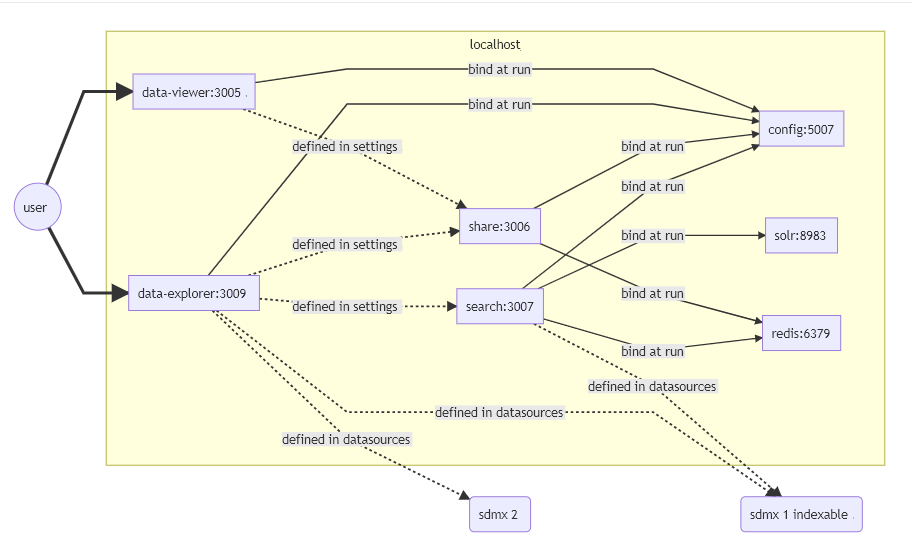
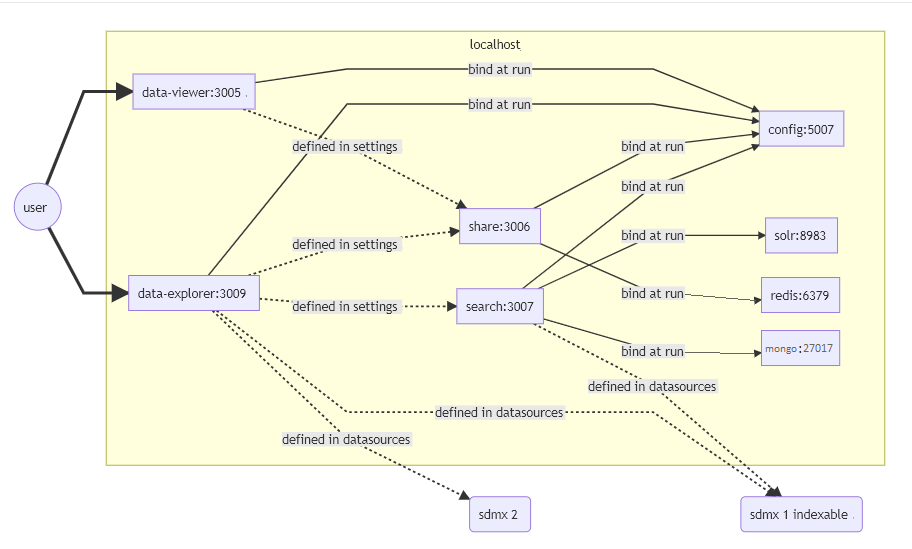
search and mongo documentation

Changed region(s): [[0.7675, 0.4954, 0.9211, 0.6812], [0.7368, 0.5264, 0.7675, 0.5574]]

diff --git a/content/configurations/search-config/_index.md b/content/configurations/search-config/_index.md
@@ -1,0 +1,101 @@
+---
+title: "Search Configuration"
+subtitle: 
+comments: false
+weight: 87
+keywords: [
+ 'Folder architecture', '#folder-architecture',
+ 'sfs.json and search result boost', '#sfs-json-and-search-result-boost',
+ 'settings.json', '#settings.json',
+]
+---
+
+#### Table of Content
+- [Folder architecture](#folder-architecture)
+- [sfs.json and search result boost](#sfs-json-and-search-result-boost)
+- [settings.json](#settings.json)
+
+---
+
+### Folder architecture
+The below diagram shows how the configuration files of the Search (sfs) service, respectively **settings.json** and **sfs.json**, are structured:
+
+```
+.
+├── configs
+│   ├── oecd
+│   │   ├── data-explorer
+│   │   ├── data-viewer
+|   |   ├── data-lifecycle-manager
+|   |   ├── sfs
+|   |   |   ├── settings.json       # see Table of content
+|   ├── sfs.json                    # see Table of content
+|   ├── tenants.json
+```
+
+---
+
+### sfs.json and search result boost
+The default configuration of sfs.json file is an empty object with fields property. This file is currently required and mandatory for the search service, especially for the search result boost feature. See more in the ([readme resource config](https://gitlab.com/sis-cc/.stat-suite/dotstatsuite-sdmx-faceted-search#resource-config)) file.
+
+*sfs.json*
+```json
+{
+  "fields": {}
+}
+```
+
+*Note* that the sfs.json file is merged with the [default configuration](https://gitlab.com/sis-cc/.stat-suite/dotstatsuite-sdmx-faceted-search/-/blob/develop/src/server/init/params.js).
+
+#### Example
+Use case: we want to create a search text boost based on `dataflowId` rather than dataflow name.  
+Considering that in the [default configuration](https://gitlab.com/sis-cc/.stat-suite/dotstatsuite-sdmx-faceted-search/-/blob/develop/src/server/init/params.js), the property name weight is at "2".  
+In order to boost the search result for dataflowId in the data-explorer, you need to increase the `dataflowId` weight in the sfs.json file.
+
+*sfs.json*
+```json
+{
+  "fields": {
+    "dataflowId": {
+      "weigth": 100
+    }
+  }
+}
+```
+
+The weight property will increase the score returned by the search service. As a result, any dataflow with the `dataflowId` that is matching the searched term used in the data-explorer will be displayed at a first position in the search result.  
+
+---
+
+### settings.json
+The sfs>settings.json file is defined at the tenant level and allows to override the search service calls to the NSI in order to bypass a request limiter.
+
+Override the (data) spaces from the tenants.json 
+
+*tenants.json*
+```json
+{
+  "spaces": {
+    "demo-design": {
+      "label": "demo-design",
+      "hasRangeHeader": true,
+      "supportsReferencePartial": true,
+      "hasLastNObservations": true,
+      "url": "http://localhost:80/rest"
+    }
+  }
+}
+```
+
+... with the url from that space only for the search service used.  
+
+*settings.json*
+```json
+{
+  "spaces": {
+    "demo-design": {
+      "url": "http://nsi-url/rest"
+    }
+  }
+}
+```

diff --git a/content/install-source-code/monotenant-install-from-artifacts.md b/content/install-source-code/monotenant-install-from-artifacts.md
@@ -40,6 +40,7 @@ keywords: [
 - [git](https://gitforwindows.org/) installed ; only to use git bash instead of cmd.exe for process variables
 - [solr 7.x](https://lucene.apache.org/solr/downloads.html) to solr 8.7 (since [May 19, 2021 Release .Stat Suite JS 8.0.0](https://sis-cc.gitlab.io/dotstatsuite-documentation/changelog/#may-19-2021)) installed and running on port 8983 (default) with a core created with `solr create -c sdmx-facet-search` from solr console
 - [redis](https://redis.io/download) downloaded and running on port 6379 (default)
+- [mongo](https://www.mongodb.com/try/download/community) downloaded and running on port 27017 (default)
 - [keycloak](https://www.keycloak.org/downloads.html) v7.x (minimum) - v12.0.4 (latest tested and recommended) downloaded and running on port 8080 (default)
 
 *notes:*
@@ -147,7 +148,7 @@ keywords: [
 3. start the service:
 
   - (temporary) edit the 1st line of dist/params/production.js as follow: `const server = { host: '0.0.0.0', port: 3007 };`
-  - (in git bash) run `PORT=3007 CONFIG_URL=http://localhost:5007 REDIS_HOST=localhost SOLR_HOST=localhost npm run dist:run`
+  - (in git bash) run `PORT=3007 CONFIG_URL=http://localhost:5007 MONGODB_URL=mongodb://localhost:27017 MONGODB_DATABASE=sfs API_KEY="secret" SOLR_HOST=localhost npm run dist:run`
   - check if everything is fine: http://localhost:3007/healthcheck
   - check if the config (mostly to check datasources) is fine: http://localhost:3007/api/config
   - create a collection [How to create a collection](https://sis-cc.gitlab.io/dotstatsuite-documentation/using-de/searching-data/indexing-data/#how-to-create-a-collection)
@@ -161,7 +162,7 @@ keywords: [
 
 *notes:*
 
-- process variables are SOLR_HOST, SOLR_PORT, REDIS_HOST, REDIS_PORT, CONFIG_URL and PORT
+- process variables are SOLR_HOST, SOLR_PORT, MONGODB_URL, MONGODB_DATABASE, CONFIG_URL, API_KEY and PORT
 - PORT is not available yet, which explain why dist/params/production.js should be updated
 - if the config is not fine, update the datasources.json and/or settings.json file(s) in the config service, restart the config service then restart the search service
 - the search service is not coupled with its clients, the search endpoint is configurable from settings.json of the data-explorer app in the config service

diff --git a/content/getting started/framework.md b/content/getting started/framework.md
@@ -125,6 +125,7 @@ The following technologies are used for the development of the **.Stat Data Expl
 <td align="center"><a href="https://www.docker.com">docker</a></td>
 <td align="center"><a href="http://lucene.apache.org/solr">solr</a></td>
 <td align="center"><a href="https://redis.io">redis</a></td>
+<td align="center"><a href="https://www.mongodb.com/">mongo</a></td>
 <td align="center"><a href="https://developer.mozilla.org/fr/docs/Web/JavaScript">es6</a></td>
 <td align="center"><a href="https://nodejs.org">nodejs</a></td>
 <td align="center"><a href="https://www.npmjs.com">npmjs</a></td">
@@ -139,6 +140,7 @@ The following technologies are used for the development of the **.Stat Data Expl
 <td align="center"><img src="https://www.usine-digitale.fr/mediatheque/5/3/8/000277835_homePageUne/docker.jpg" style="height: 40px;" /></td>
 <td align="center"><img src="https://upload.wikimedia.org/wikipedia/commons/c/cd/Surface1.png" style="height: 40px;" /></td>
 <td align="center"><img src="https://cdn-images-1.medium.com/max/1200/1*ngGAAMf8Sw4jCJ_nP2Qt5A.png" style="height: 40px;" /></td>
+<td align="center"><img src="https://webimages.mongodb.com/_com_assets/cms/kuyjf3vea2hg34taa-horizontal_default_slate_blue.svg?auto=format%252Ccompress" style="height: 40px;" /></td>
 <td align="center"><img src="https://upload.wikimedia.org/wikipedia/commons/thumb/9/99/Unofficial_JavaScript_logo_2.svg/480px-Unofficial_JavaScript_logo_2.svg.png" style="height: 40px;" /></td>
 <td align="center"><img src="https://nodejs.org/static/images/logos/nodejs-new-pantone-black.svg" style="height: 40px;" /></td>
 <td align="center"><img src="https://upload.wikimedia.org/wikipedia/commons/thumb/d/db/Npm-logo.svg/1280px-Npm-logo.svg.png" style="height: 40px;" /></td>
@@ -317,7 +319,7 @@ This service is a .Stat-specific proxy to an SolR engine to index SDMX dataflows
 graph LR
   id0[ExpressJS + evtX]
   id2[SolR]
-  id4(redis)
+  id4(mongo)
   id5[config]
   id7((user))
   id9((admin))
@@ -449,7 +451,7 @@ id5[search]
 id6[share]
 id7[config]
 id8[solr]
-id9(redis)
+id9(mongo)
 id10(redis)
 id11((x))
 id13[sdmx/nsi]

diff --git a/content/install-source-code/monotenant-install-js-as-windows-services.md b/content/install-source-code/monotenant-install-js-as-windows-services.md
@@ -13,6 +13,7 @@ keywords: [
   'solr', '#solr',
   'Create a solr collection', '#create-a-solr-collection',
   'redis', '#redis',
+  'mongo', '#mongo',
   'keycloak', '#keycloak',
   'dotstatsuitejs', '#dotstatsuitejs',
   'artefacts', '#artefacts',
@@ -30,6 +31,7 @@ keywords: [
 - [solr](#solr)
 - [Create a solr collection](#create-a-solr-collection)
 - [redis](#redis)
+- [mongo](#mongo)
 - [keycloak](#keycloak)
 - [dotstatsuitejs](#dotstatsuitejs)
 - [artefacts](#artefacts)
@@ -102,6 +104,12 @@ keywords: [
 
 ### Create a solr collection
   - create a collection [How to create a collection](https://sis-cc.gitlab.io/dotstatsuite-documentation/using-de/searching-data/indexing-data/#how-to-create-a-collection)
+---
+
+### Mongo
+  - download mongo: https://www.mongodb.com/try/download/community
+  - default port 27017
+  - installation step to be completed... (you can complete it by creating a MR on https://gitlab.com/sis-cc/dotstatsuite-documentation)
 ---
 
 ### Redis
@@ -212,7 +220,7 @@ link in settings assets should stay like below:
 - checks:
   - config: http://localhost:5007/healthcheck
   - share: http://localhost:3005/healthcheck (redis OK)
-  - search: http://localhost:3004/healthcheck (redis OK, solr OK)
+  - search: http://localhost:3004/healthcheck (mongo OK, solr OK)
   - explorer: http://localhost:7001
   - viewer: http://localhost:7002 (no id)
   - dlm: http://localhost:7000

diff --git a/content/getting started/infrastructure-requirements.md b/content/getting started/infrastructure-requirements.md
@@ -49,7 +49,8 @@ Although the requirements could vary depending on the size of your data and the 
 - **nodejs 14.x** and **npm 6.14.x** installed
 - **git** installed (https://gitforwindows.org/); only to use git bash instead of cmd.exe for process variables
 - **solr 7.x** to **solr 8.7** (since [May 19, 2021 Release .Stat Suite JS 8.0.0](https://sis-cc.gitlab.io/dotstatsuite-documentation/changelog/#may-19-2021)) installed and running on port 8983 (default) with a core created with `solr create -c sdmx-facet-search` from solr console
-- **redis** downloaded and running on port 6379 (default)
+- **redis 5.x** downloaded and running on port 6379 (default)
+- **mongo 5.x** downloaded and running on port 27017 (default)
 
 *notes:*  
 - solr core name can be freely picked, default configuration targets sdmx-facet-search

diff --git a/content/using-de/searching-data/indexing-data.md b/content/using-de/searching-data/indexing-data.md
@@ -140,7 +140,7 @@ Example:
 
 ![GET search sfs config](/dotstatsuite-documentation/images/de-index-get-config.png)
 
-This request returns the `sfs` dynamic configuration with full details on configUrl, data source(s), RedisServer, fields and indexed dataflows.
+This request returns the `sfs` dynamic configuration with full details on configUrl, data source(s), fields and indexed dataflows.
 
 #### DELETE search sfs config
 Example:  

diff --git a/content/install-source-code/monotenant-update-from-artifacts.md b/content/install-source-code/monotenant-update-from-artifacts.md
@@ -56,7 +56,7 @@ keywords: [
 
  2. restart the service: 
  
-  - (in git bash) run `PORT=3007 CONFIG_URL=http://localhost:5007 DEFAULT_TENANT=default REDIS_HOST=localhost SOLR_HOST=localhost npm run dist:run`
+  - (in git bash) run `PORT=3007 CONFIG_URL=http://localhost:5007 DEFAULT_TENANT=default MONGODB_URL=mongodb://mongo:27017 MONGODB_DATABASE=sfs SOLR_HOST=localhost npm run dist:run`
 
 ---
 

diff --git a/content/configurations/de-analytics/_index.md b/content/configurations/de-analytics/_index.md
@@ -2,7 +2,7 @@
 title: .Stat DE analytics
 subtitle: 
 comments: false
-weight: 76
+weight: 75
 keywords: [
   'Google Analytics', 'https://sis-cc.gitlab.io/dotstatsuite-documentation/configurations/analytics/google-analytics/',
   'Google Tag Manager', 'https://sis-cc.gitlab.io/dotstatsuite-documentation/configurations/analytics/google-tag-manager/',

diff --git a/content/configurations/search-config/solr-optimisation.md b/content/configurations/search-config/solr-optimisation.md
@@ -2,7 +2,7 @@
 title: "SolR optimisation"
 subtitle: 
 comments: false
-weight: 92
+weight: 89
 keywords: [
   'IR Ranking Functions Introduction - Default Scoring', '#ir-ranking-functions-introduction---default-scoring',
   'Customise Scoring Function', '#customise-scoring-function',

diff --git a/content/configurations/authentication/third-party-providers.md b/content/configurations/authentication/third-party-providers.md
@@ -2,7 +2,7 @@
 Title: "Third-party Identity Providers in Keycloak"
 subtitle: 
 comments: false
-weight: 90
+weight: 84
 keywords: [
   'Active Directory ADFS', '#active-directory-adfs',
   'Add attribute mappings', '#add-attribute-mappings',

diff --git a/content/configurations/authentication/_index.md b/content/configurations/authentication/_index.md
@@ -2,7 +2,7 @@
 title: "Authentication"
 subtitle: 
 comments: false
-weight: 86
+weight: 82
 keywords: [
 'Generic OpenID Compliance', '#generic-openid-compliance',
 'Optional authentication of DE', '#optional-authentication-of-de',

diff --git a/content/configurations/de-analytics/google-tag-manager.md b/content/configurations/de-analytics/google-tag-manager.md
@@ -2,7 +2,7 @@
 title: "Google Tag Manager"
 subtitle: 
 comments: false
-weight: 80
+weight: 77
 keywords: [
 'How to configure Google Tag Manager', '#how-to-configure-google-tag-manager',
 'Pre-requisite', '#pre-requisite',
